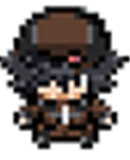
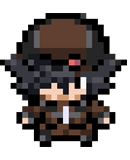
เพิ่ม interface display

diff --git a/src/application/Main.java b/src/application/Main.java
@@ -78,6 +78,8 @@ public class Main extends Application {
         ArrayList<Sprite> imageChar2=new ArrayList<>();
         ArrayList<Sprite> imageDis =new ArrayList<>();
         ArrayList<Sprite> imageDis2=new ArrayList<>();
+        ArrayList<Sprite> imageDisBack =new ArrayList<>();
+        ArrayList<Sprite> imageDis2Back=new ArrayList<>();
 
         String pre="charector/",name="char",sub=".png";
         GraphicsContext gc = canvas.getGraphicsContext2D();
@@ -88,6 +90,11 @@ public class Main extends Application {
         Button enterGame   =new Button("enter");
 
         scene.setFill(new ImagePattern (new Image("select.png")));
+        ImageView m=new ImageView(new Image("charector/base.png"));
+        for (int i = 0; i <4 ; i++) {
+            imageDisBack .add(new Sprite(pre+"L"+(i)+sub,0,0));
+            imageDis2Back.add(new Sprite(pre+"R"+(i)+sub,640,0));
+        }
         for (int i = 0; i <4 ; i++) {
             imageDis .add(new Sprite(pre+"dis"+name+(i)+sub,350,300));
             imageDis2.add(new Sprite(pre+"dis"+name+(i)+sub,810,300));
@@ -114,7 +121,7 @@ public class Main extends Application {
             cY+=112;
         }
         enterGame.relocate(1280/2,650);
-        root.getChildren().add(enterGame);
+        root.getChildren().addAll(enterGame,m);
 
 
         AnimationTimer timer = new AnimationTimer() {
@@ -167,12 +174,15 @@ public class Main extends Application {
                     stage.show();
                 });
                 gc.clearRect(0, 0, 1280,720);
+
                 for (Sprite c:imageChar) {
                     c.render(gc);
                 }
                 for (Sprite c:imageChar2) {
                     c.render(gc);
                 }
+                imageDisBack.get(select[0]).render(gc);
+                imageDis2Back.get(select[1]).render(gc);
                 imageDis.get(select[0]).render(gc);
                 imageDis2.get(select[1]).render(gc);
             }
@@ -288,7 +298,7 @@ public class Main extends Application {
                     player.animation.stop();
                 }
                 if (isPressed(KeyCode.F)&&Rate>=player.getFireRate()&&player.getBullet()!=0) {
-                    playSoundWeapon(player.getTypeWeapon(),0.4);
+                    playSoundWeapon(player.getTypeWeapon(),0.1);
                     if(player.getTypeWeapon()==1) {
                         createBulletShotGun((player.getTranslateX() + 23), player.getTranslateY() + 30,player,bullet);
                     }else {
@@ -335,7 +345,7 @@ public class Main extends Application {
                     player2.animation.stop();
                 }
                 if (isPressed(KeyCode.SLASH)&&Rate2>=player2.getFireRate()&&player2.getBullet()!=0) {
-                    playSoundWeapon(player.getTypeWeapon(),0.4);
+                    playSoundWeapon(player2.getTypeWeapon(),0.1);
                     if(player2.getTypeWeapon()==1) {
                         createBulletShotGun((player2.getTranslateX() + 23), player2.getTranslateY() + 30,player2,bullet);
                     }else {
@@ -547,7 +557,7 @@ public class Main extends Application {
         Weapon weapon=new Weapon();
         if(playerType==0){
             //scout
-            weapon =new Weapon(playerType,"inweapon"+playerType+".png",15,25,5);
+            weapon =new Weapon(playerType,"inweapon"+playerType+".png",15,25,8);
         }
         if(playerType==1){
             //old man
@@ -607,7 +617,7 @@ public class Main extends Application {
                 break;
             }
             case 0:{
-                weapon=new Weapon(type,"weapon"+type+".png",15,25,5);
+                weapon=new Weapon(type,"weapon"+type+".png",15,25,8);
                 break;
             }
             case 1:{
@@ -658,9 +668,9 @@ public class Main extends Application {
         int px=75,py=64,count=0,index=0;
         // 15 block
 
-        int []bb= new int[]{0,1,2,3,4,5,6,7,8,9,10,11,12,29,44,59,74,89,99,103,104,113,114};
-        for (int i = 0; i <=9 ; i++) {
-            for (int j = 0; j <=14 ; j++) {
+        int []bb= new int[]{33,37,48,51,52,53,63,67};
+        for (int i = 0; i <8 ; i++) {
+            for (int j = 0; j <15 ; j++) {
                 if (index==bb.length)break;
                 if(count==bb[index]){
                     //set type of block is here
